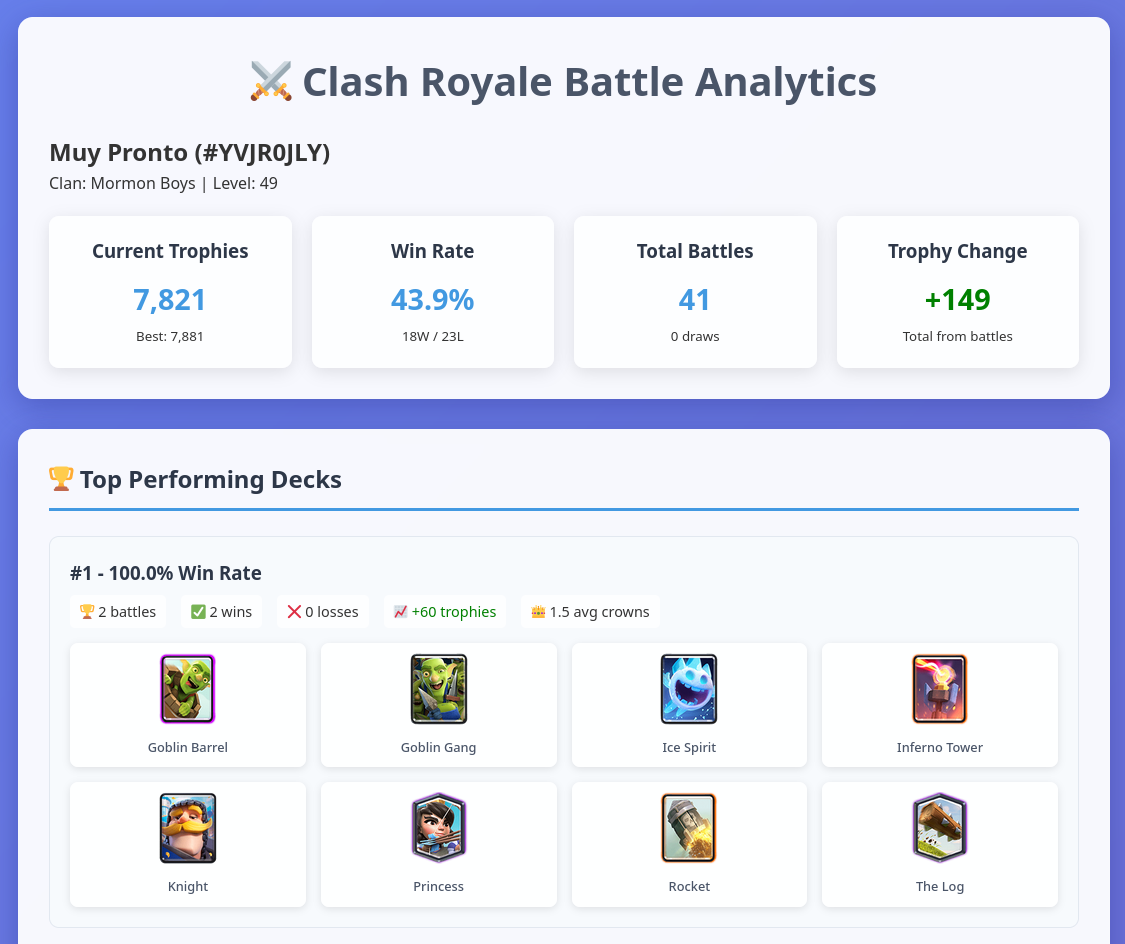
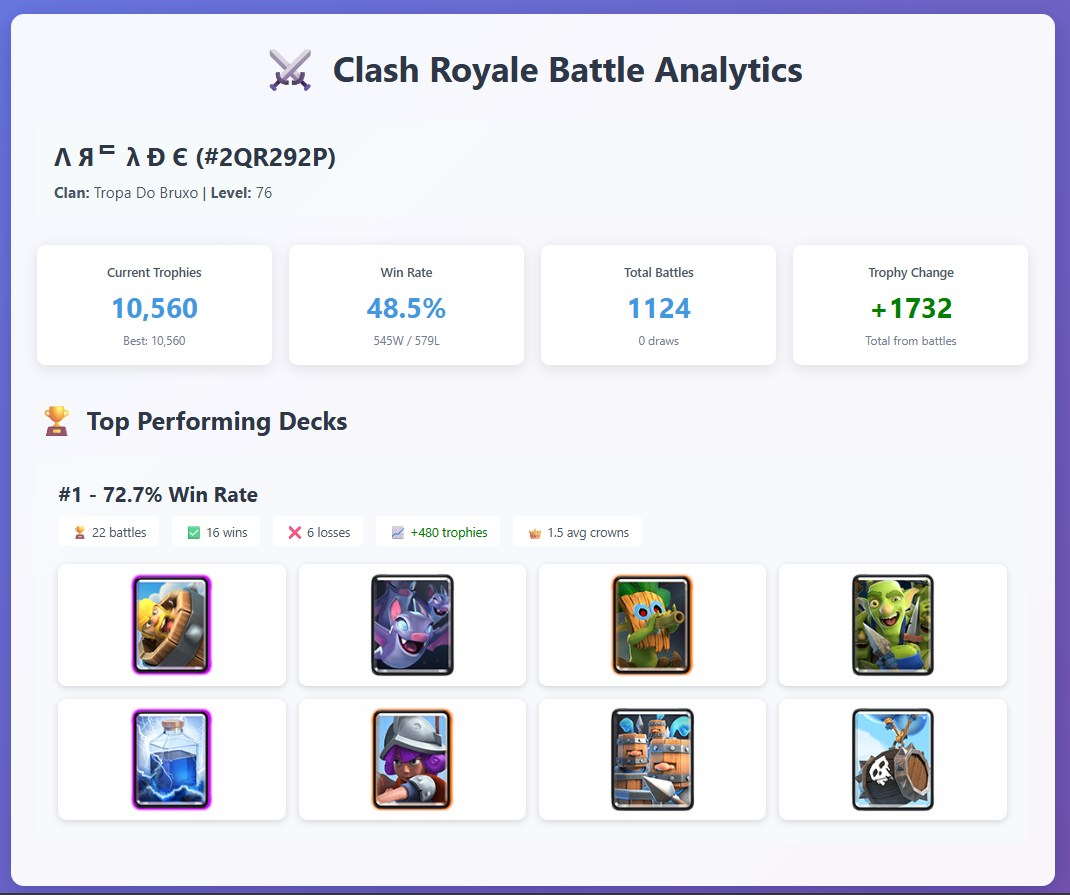
foto

diff --git a/src/screenshot.html b/src/screenshot.html
@@ -234,17 +234,17 @@
             
             <div class="deck-card">
                 <div class="deck-header">
-                    <h3>#1 - 100.0% Win Rate</h3>
+                    <h3>#1 - 72.7% Win Rate</h3>
                     <div class="deck-stats">
-                        <span class="deck-stat">🏆 1 battles</span>
-                        <span class="deck-stat">✅ 1 wins</span>
-                        <span class="deck-stat">❌ 0 losses</span>
-                        <span class="deck-stat" style="color: green">📈 +0 trophies</span>
-                        <span class="deck-stat">👑 3.0 avg crowns</span>
+                        <span class="deck-stat">🏆 22 battles</span>
+                        <span class="deck-stat">✅ 16 wins</span>
+                        <span class="deck-stat">❌ 6 losses</span>
+                        <span class="deck-stat" style="color: green">📈 +480 trophies</span>
+                        <span class="deck-stat">👑 1.5 avg crowns</span>
                     </div>
                 </div>
                 <div class="deck-cards">
-                    <div class="card-item"><img src="../cards/normal_cards/ArcherQueen.png" alt="Archer Queen" class="card-img"></div><div class="card-item"><img src="../cards/normal_cards/Arrows.png" alt="Arrows" class="card-img"></div><div class="card-item"><img src="../cards/normal_cards/Bomber.png" alt="Bomber" class="card-img"></div><div class="card-item"><img src="../cards/normal_cards/GoblinCurse.png" alt="Goblin Curse" class="card-img"></div><div class="card-item"><img src="../cards/normal_cards/GobGiant.png" alt="Goblin Giant" class="card-img"></div><div class="card-item"><img src="../cards/normal_cards/PEKKA.png" alt="P.E.K.K.A" class="card-img"></div><div class="card-item"><img src="../cards/normal_cards/Rage.png" alt="Rage" class="card-img"></div><div class="card-item"><img src="../cards/normal_cards/SkeletonKing.png" alt="Skeleton King" class="card-img"></div>
+                    <div class="card-item"><img src="../cards/normal_cards/BarbBarrel.png" alt="Barbarian Barrel" class="card-img"></div><div class="card-item"><img src="../cards/normal_cards/Bats.png" alt="Bats" class="card-img"></div><div class="card-item"><img src="../cards/normal_cards/DartGob.png" alt="Dart Goblin" class="card-img"></div><div class="card-item"><img src="../cards/normal_cards/GobGang.png" alt="Goblin Gang" class="card-img"></div><div class="card-item"><img src="../cards/normal_cards/Lightning.png" alt="Lightning" class="card-img"></div><div class="card-item"><img src="../cards/normal_cards/Musk.png" alt="Musketeer" class="card-img"></div><div class="card-item"><img src="../cards/normal_cards/RoyalRecruits.png" alt="Royal Recruits" class="card-img"></div><div class="card-item"><img src="../cards/normal_cards/SkellyBarrel.png" alt="Skeleton Barrel" class="card-img"></div>
                 </div>
             </div>
         </div>

diff --git a/src/gerar_html_screenshot.py b/src/gerar_html_screenshot.py
@@ -154,15 +154,23 @@ class ScreenshotHTMLGenerator:
             'total_trophy_change': battle_stats[4] or 0
         }
     
-    def get_top_deck(self) -> Optional[Dict]:
-        """Get top performing deck"""
+    def get_top_deck(self, player_tag: str = None) -> Optional[Dict]:
+        """Get most used deck (most battles) or deck with most wins"""
         if not os.path.exists(self.db_path):
             return None
             
         conn = sqlite3.connect(self.db_path)
         cursor = conn.cursor()
         
-        cursor.execute("""
+        # Get player tag if not provided
+        if not player_tag:
+            cursor.execute("SELECT player_tag FROM players ORDER BY last_updated DESC LIMIT 1")
+            player_row = cursor.fetchone()
+            if player_row:
+                player_tag = player_row[0]
+        
+        # Build query with optional player_tag filter
+        query = """
             SELECT 
                 deck_cards,
                 COUNT(*) as total_battles,
@@ -172,13 +180,23 @@ class ScreenshotHTMLGenerator:
                 AVG(crowns) as avg_crowns
             FROM battles
             WHERE deck_cards IS NOT NULL AND deck_cards != ''
+        """
+        
+        params = []
+        if player_tag:
+            query += " AND player_tag = ?"
+            params.append(player_tag)
+        
+        query += """
             GROUP BY deck_cards
             HAVING total_battles >= 1
             ORDER BY 
-                (CAST(wins AS FLOAT) / CAST(total_battles AS FLOAT)) DESC,
-                total_battles DESC
+                total_battles DESC,
+                wins DESC
             LIMIT 1
-        """)
+        """
+        
+        cursor.execute(query, params)
         
         row = cursor.fetchone()
         conn.close()
@@ -216,7 +234,8 @@ class ScreenshotHTMLGenerator:
     def generate_html(self) -> str:
         """Generate complete HTML document"""
         stats = self.get_player_stats()
-        top_deck = self.get_top_deck()
+        player_tag = stats.get('player_tag') if stats else None
+        top_deck = self.get_top_deck(player_tag=player_tag)
         
         if not stats:
             return "<html><body><h1>Erro: Nenhum dado encontrado no banco de dados</h1></body></html>"
